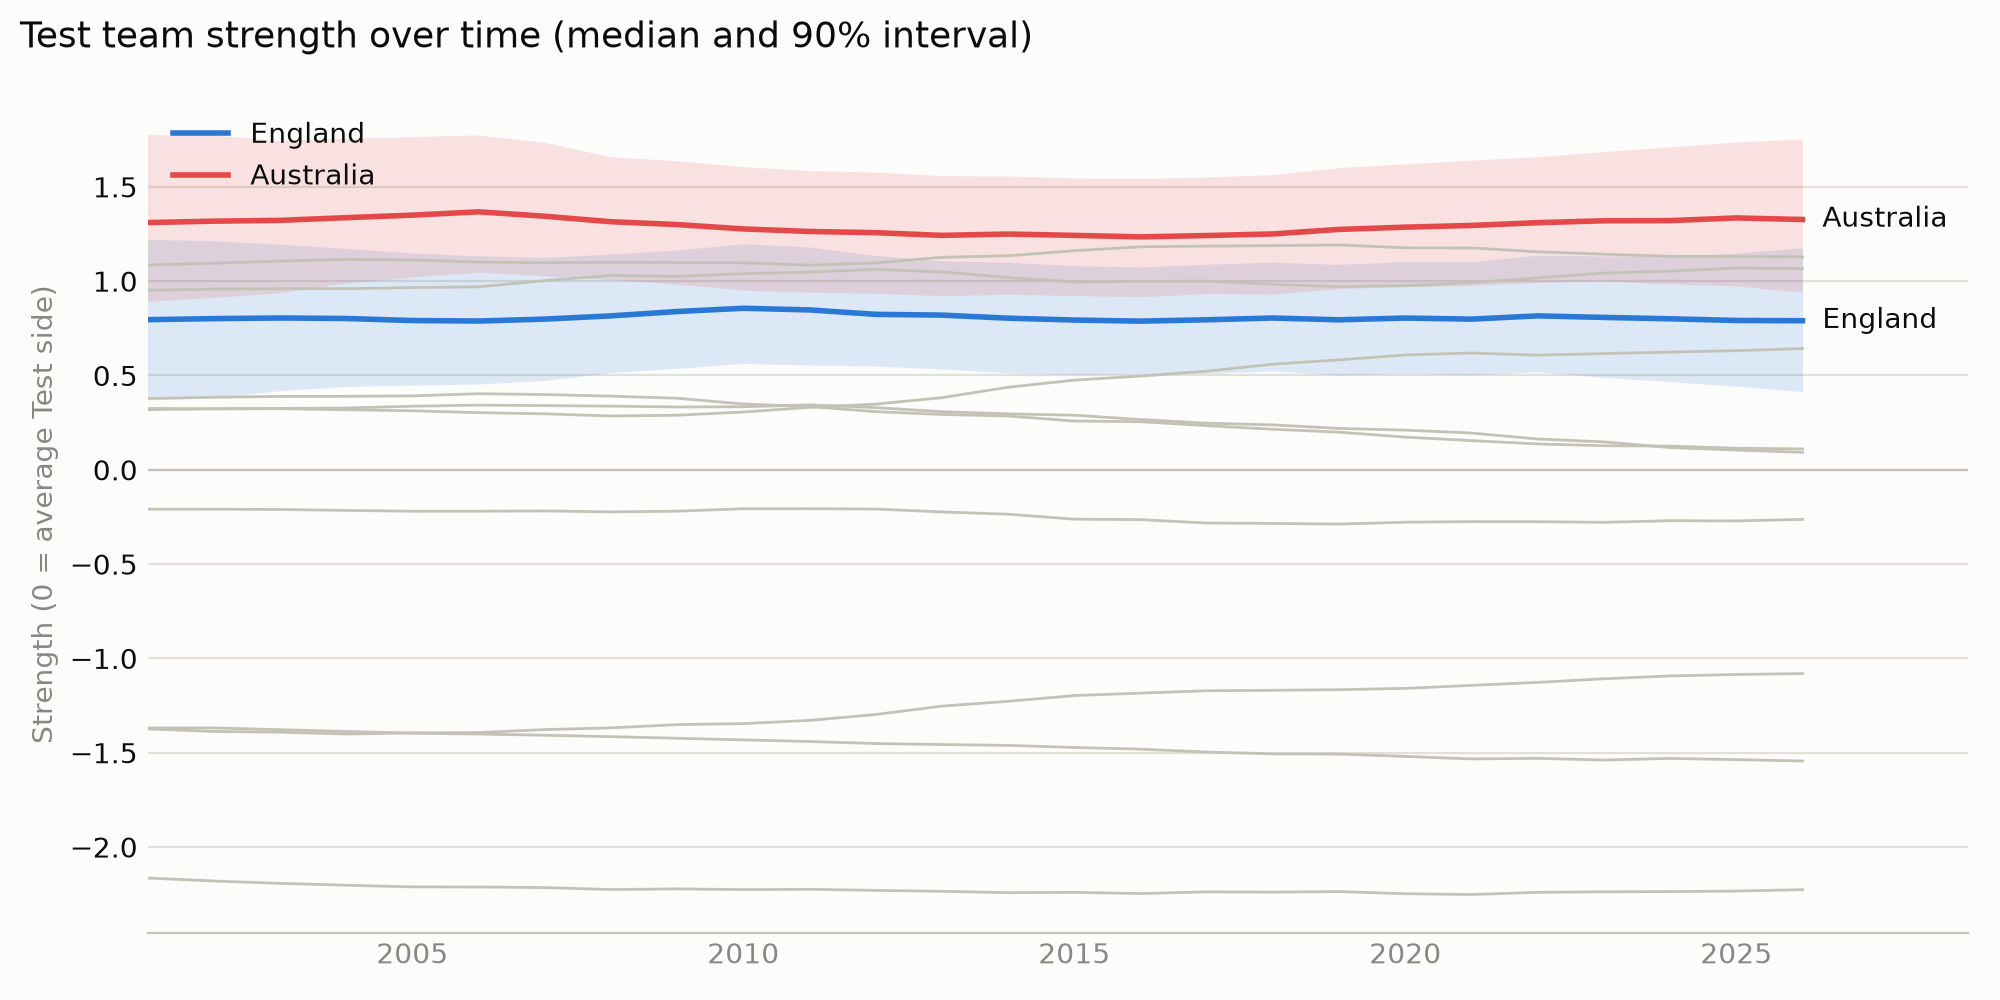
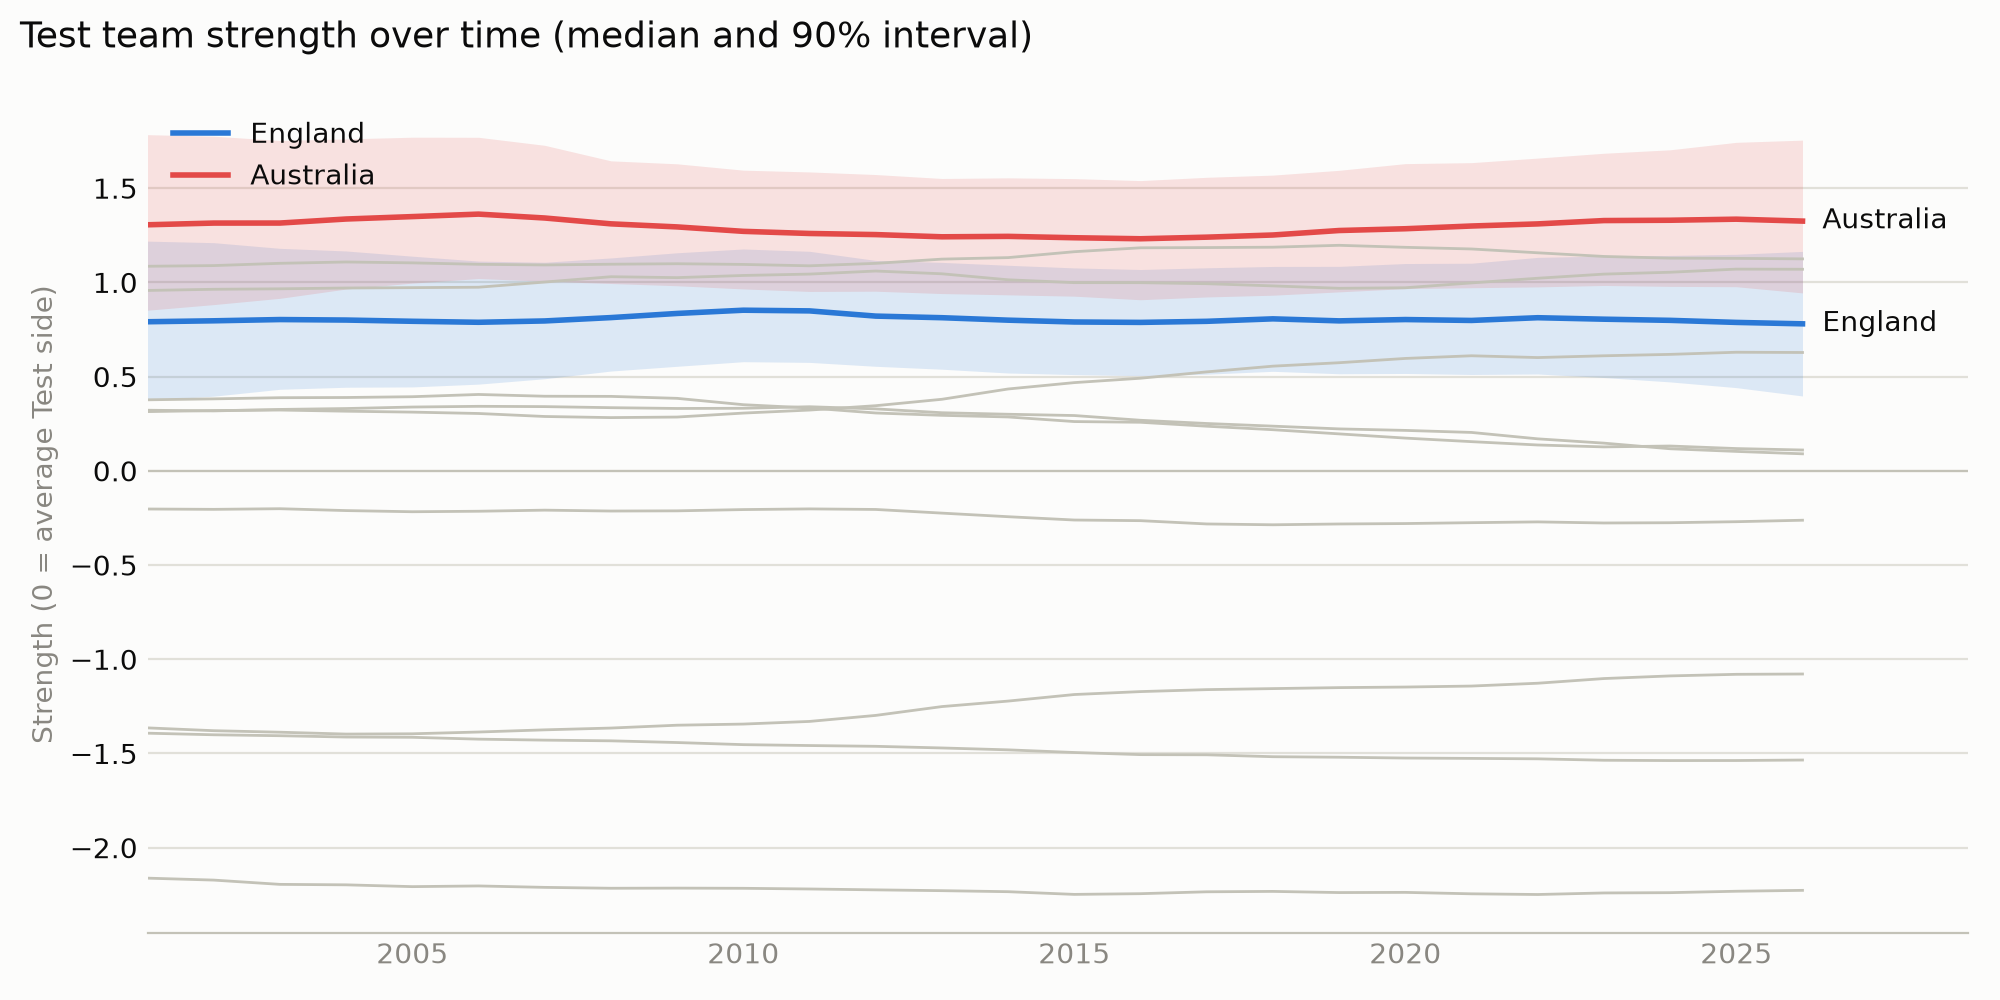
Back-test results, and smaller sampler steps

diff --git a/src/cricket/bayes_model.py b/src/cricket/bayes_model.py
@@ -43,7 +43,7 @@ def fit(model, draws=1000, tune=1000, chains=4, seed=2027, cores=None, progressb
     """Run NUTS and return each parameter's draws as plain arrays shaped (chains, draws, ...)."""
     with model:
         idata = pm.sample(draws=draws, tune=tune, chains=chains, cores=cores, random_seed=seed,
-                          target_accept=0.9, progressbar=progressbar)
+                          target_accept=0.95, progressbar=progressbar)
     samples = {name: np.asarray(idata.posterior[name].values) for name in PARAMETERS}
     divergences = int(np.asarray(idata.sample_stats["diverging"].values).sum())
     return samples, divergences

diff --git a/README.md b/README.md
@@ -11,19 +11,19 @@ through to every series result.
 | Test | Ground | Dates | England win | Draw | Australia win |
 | --- | --- | --- | --- | --- | --- |
 | 1 | Trent Bridge | 18–22 June | 47% | 10% | 43% |
-| 2 | Lord's | 30 June–4 July | 45% | 15% | 40% |
-| 3 | Edgbaston | 8–12 July | 47% | 11% | 42% |
+| 2 | Lord's | 30 June–4 July | 44% | 15% | 40% |
+| 3 | Edgbaston | 8–12 July | 46% | 11% | 42% |
 | 4 | Utilita Bowl | 21–25 July | 44% | 16% | 40% |
 | 5 | Kia Oval | 29 July–2 August | 47% | 10% | 43% |
 
 | Series | England win | Drawn series | Australia win | Australia retain the urn |
 | --- | --- | --- | --- | --- |
-| Model | 47% | 13% | 39% | 53% |
+| Model | 47% | 13% | 40% | 53% |
 | Model, if the Tests were independent | 47% | 14% | 39% | 53% |
 | My own forecast, written before any modelling | 42% | 16% | 42% | 58% |
 
-England are slight favourites at home because the model's home advantage (0.64) is a little larger than the gap
-between the teams (Australia 1.34, England 0.79 on the model's scale).
+England are slight favourites at home because the model's home advantage (0.63) is a little larger than the gap
+between the teams (Australia 1.33, England 0.78 on the model's scale).
 
 ## The question and the approach
 
@@ -34,7 +34,8 @@ between the teams (Australia 1.34, England 0.79 on the model's scale).
 3. **Profile the five grounds** from their history: draw rates, first-innings scores, overs bowled, the toss and how
    batters were dismissed.
 4. **Fit a Bayesian model** in PyMC with Hamiltonian Monte Carlo (NUTS).
-5. **Forecast each 2027 Test and the series**, and compare with a forecast written down before any modelling.
+5. **Back-test it** on the 2019 and 2023 Ashes, using only Tests played before each series.
+6. **Forecast each 2027 Test and the series**, and compare with a forecast written down before any modelling.
 
 ## The model
 
@@ -59,29 +60,44 @@ $$\log w = \beta_0 + v_{\text{venue}} + \tau \cdot \frac{\text{year} - 2019}{10}
 
 | Check | Result | Target |
 | --- | --- | --- |
-| Worst R-hat | 1.008 | below 1.01 |
-| Smallest effective sample size | 654 | above 400 |
+| Worst R-hat | 1.002 | below 1.01 |
+| Smallest effective sample size | 718 | above 400 |
 | Divergences | 0 | 0 |
 
-Four chains of 1,000 warm-up and 1,000 kept draws, with a target acceptance of 0.9. R-hat and effective sample size are
+Four chains of 1,000 warm-up and 1,000 kept draws, with a target acceptance of 0.95. R-hat and effective sample size are
 implemented from first principles in [`diagnostics.py`](src/cricket/diagnostics.py) and tested against cases with known
 answers. Full results are in [`figures/sampler_checks.csv`](figures/sampler_checks.csv).
+
+## How good is it?
+
+I tested the model on the 2019 and 2023 Ashes, fitting it only on Tests played before each series began.
+
+| Average per Test (lower is better) | Model | Past results | Equal thirds |
+| --- | --- | --- | --- |
+| Log loss | 1.06 | 1.10 | 1.10 |
+| Brier score | 0.65 | 0.67 | 0.67 |
+
+The model beat both simple forecasts in both series, but by a small margin over only ten Tests. It favoured
+England in every Test, and both series finished 2-2. Details are in
+[`figures/backtest_tests.csv`](figures/backtest_tests.csv) and [`DECISIONS.md`](DECISIONS.md).
+
+![Back-test: model chances before each Ashes Test, and what happened](figures/backtest.png)
 
 ## What the model learned
 
 | Parameter | Mean | 90% interval |
 | --- | --- | --- |
-| Home advantage | 0.64 | 0.52 to 0.76 |
+| Home advantage | 0.63 | 0.51 to 0.75 |
 | Draw trend per decade | −0.52 | −0.71 to −0.34 |
-| Australia strength, 2026 | 1.34 | 0.94 to 1.75 |
-| England strength, 2026 | 0.79 | 0.42 to 1.18 |
+| Australia strength, 2026 | 1.33 | 0.94 to 1.76 |
+| England strength, 2026 | 0.78 | 0.40 to 1.16 |
 
 - **Draws are becoming much rarer.** The draw band narrows by about 40% per decade. At the five grounds, 20% of Tests
   were drawn overall but 13% since 2019.
 - **Grounds differ beyond their weather.** Lord's draws more than any other well-sampled ground despite London being
   one of the drier fixtures; Trent Bridge, the wettest, draws among the least.
 - **Partial pooling at work.** The Utilita Bowl has a raw draw rate of 43% from only seven Tests. The model rates it
-  about the same as Lord's, with a 90% interval about 50% wider.
+  about the same as Lord's, with a 90% interval about 40% wider.
 
 ![Team strength over time](figures/team_strength.png)
 
@@ -103,13 +119,12 @@ answers. Full results are in [`figures/sampler_checks.csv`](figures/sampler_chec
 - **One home advantage for every team.**
 - **No historical match weather.** Each ground's effect already includes its typical summer weather. The Met Office
   climate averages in `data/manual/` explain those effects and can adjust a forecast in the week of each Test.
-- **Not yet back-tested** on past series.
+- **A small back-test.** Ten Tests is too few to rank models with confidence.
 
 ## Next steps
 
-1. Back-test on the 2019 and 2023 Ashes and on every year of Tests, using only data from before each one, scored against
-   simple baselines.
-2. Use the margin of victory, then ball-by-ball runs and wickets, so the model can follow real changes in form.
+1. Use the margin of victory, then ball-by-ball runs and wickets, so the model can follow real changes in form.
+2. Back-test on every year of Tests, not only two Ashes series, to give hundreds of scored forecasts.
 3. Build player-level strengths from the expected XIs, with availability per Test and a cover plan for replacements.
 
 ## Reproduce it
@@ -118,7 +133,7 @@ Requires [uv](https://docs.astral.sh/uv/).
 
 ```bash
 uv sync
-uv run pytest                                      # 153 tests
+uv run pytest                                      # 160 tests
 ```
 
 Download the **Test matches (JSON)** and the **People register** from [Cricsheet](https://cricsheet.org/downloads/).
@@ -131,6 +146,7 @@ uv run python -m cricket.manual_data               # validate squads, availabili
 uv run python -m cricket.cover_plan                # validate the replacement plan
 uv run python -m cricket.grounds                   # ground profiles and charts
 uv run python -m cricket.grounds --since 2019-01-01
+uv run python -m cricket.backtest --tune 2000      # back-test on the 2019 and 2023 Ashes
 uv run python -m cricket.forecast                  # fit the model and forecast 2027
 ```
 
@@ -147,10 +163,11 @@ uv run python -m cricket.forecast                  # fit the model and forecast 
 | `src/cricket/bayes_model.py` | The PyMC model |
 | `src/cricket/diagnostics.py` | R-hat and effective sample size |
 | `src/cricket/predict.py` | Test and series forecasts from posterior draws |
+| `src/cricket/backtest.py` | Forecasts the 2019 and 2023 Ashes using only earlier Tests, and scores the forecasts |
 | `src/cricket/forecast.py` | Fits the model and produces the forecast |
 | `data/manual/` | Squads, availability, cover plan, fixtures, venues, climate and my own forecast |
 | `figures/` | Charts and results tables |
-| `tests/` | 153 tests |
+| `tests/` | 160 tests |
 | [`DECISIONS.md`](DECISIONS.md) | Every modelling and data decision, with reasons |
 
 ## Data sources

diff --git a/DECISIONS.md b/DECISIONS.md
@@ -283,9 +283,9 @@ Why: each prior rules out only absurd values, so with 898 Tests the data decide.
 much narrower than its prior.
 
 ## 2026-11-10: Sampler settings and checks
-4 chains, each with 1,000 warm-up and 1,000 kept draws, using NUTS with a target acceptance of 0.9 for smaller,
-more careful steps. Each chain took about 6 seconds.
-Result: worst R-hat 1.008, smallest effective sample size 654, 0 divergences, so the posterior can be trusted.
+4 chains, each with 1,000 warm-up and 1,000 kept draws, using NUTS with a target acceptance of 0.95 for small,
+careful steps (raised from 0.9 after the back-test, see below). The fit took about 10 seconds.
+Result: worst R-hat 1.002, smallest effective sample size 718, 0 divergences, so the posterior can be trusted.
 
 ## 2026-11-10: R-hat and effective sample size written from first principles
 I wrote split R-hat and an effective sample size based on Geyer's initial positive sequence in NumPy, and tested them
@@ -307,13 +307,13 @@ stronger at Lord's and at Edgbaston. Treating the Tests as independent would ign
 It rates teams, not players, so the XIs, injuries, workloads between back-to-back Tests and the weather in the week
 of each Test are not yet used. Home advantage is the same for every team. These are the next things to add.
 
-## 2026-11-10: Findings from the first model forecast
-The fit is sound: worst R-hat 1.008, smallest effective sample size 654, 0 divergences.
+## 2026-11-10: Findings from the model forecast
+The fit is sound: worst R-hat 1.002, smallest effective sample size 718, 0 divergences.
 
-Strength in 2026 (0 = average Test side): Australia 1.34 (90% interval 0.94 to 1.75), England 0.79 (0.42 to 1.18).
-Australia are clearly, but not certainly, the stronger side; the intervals overlap only between 0.94 and 1.18.
+Strength in 2026 (0 = average Test side): Australia 1.33 (90% interval 0.94 to 1.76), England 0.78 (0.40 to 1.16).
+Australia are clearly, but not certainly, the stronger side; the intervals overlap only between 0.94 and 1.16.
 
-Home advantage is 0.64 (0.52 to 0.76), slightly larger than the gap between the teams (about 0.54). At home, England
+Home advantage is 0.63 (0.51 to 0.75), slightly larger than the gap between the teams (about 0.55). At home, England
 become slight favourites in every Test: 44% to 47%, against Australia's 40% to 43%.
 
 Draws are becoming much rarer: the draw trend is -0.52 per decade (-0.71 to -0.34), so the draw band narrows by about
@@ -321,10 +321,10 @@ Draws are becoming much rarer: the draw trend is -0.52 per decade (-0.71 to -0.3
 at Trent Bridge and the Kia Oval (10% each).
 
 Partial pooling at the Utilita Bowl: its raw draw rate was 43% from 7 Tests, but the model rates its ground effect
-(+0.23) about the same as Lord's (+0.24, raw rate 26% from 42 Tests). Its 90% interval is about 50% wider than Lord's
-(1.18 against 0.78), showing the extra uncertainty from so few Tests.
+(+0.23) about the same as Lord's (+0.24, raw rate 26% from 42 Tests). Its 90% interval is about 40% wider than Lord's
+(1.16 against 0.81), showing the extra uncertainty from so few Tests.
 
-Series: England win 47%, drawn series 13%, Australia win 39%, so Australia retain the urn 53% of the time.
+Series: England win 47%, drawn series 13%, Australia win 40%, so Australia retain the urn 53% of the time.
 Treating the Tests as independent changes this only slightly (drawn series 14%), because the uncertainty about the
 strength gap is modest compared with the randomness within each Test.
 
@@ -348,3 +348,46 @@ injuries (Hazlewood, Cummins), nor that England have played without Stokes since
 last two Ashes in England, both drawn 2-2. I treat this as a sound starting point. The next version needs more
 information from each Test, such as the margin of victory or runs and wickets from the ball-by-ball data, and
 player-level information before I trust its small England edge.
+
+---
+
+## Testing the model on past series
+
+## 2026-11-10: Back-testing on the 2019 and 2023 Ashes
+Before trusting the 2027 forecast I tested the same model on the two most recent home Ashes. For each series the
+model is fitted only on Tests played before its first day, and the home side is worked out from those Tests alone.
+A test checks this cut-off: it fails if the model sees any Test from inside the series window.
+
+## 2026-11-10: Scoring with log loss and the Brier score
+Log loss punishes confident wrong forecasts heavily, which matters when forecasts feed a betting price. The Brier
+score is gentler and bounded, so it shows whether one bad miss is driving the log loss. I report both, averaged
+per Test.
+
+## 2026-11-10: Two simple forecasts to beat
+Equal thirds knows nothing. Past results gives the share of home wins, draws and away wins in all earlier Tests.
+Beating equal thirds is easy. Beating past results shows that team strength and ground effects add information
+beyond "home sides win more". Ten Tests is a small sample, so this is a first check, not a final verdict.
+
+## 2026-11-10: Smaller sampler steps
+Two of the back-test fits produced two or three divergences out of 4,000 draws, depending on the seed, although R-hat
+and effective sample size were fine. I raised target_accept from 0.9 to 0.95, so NUTS takes smaller steps through the
+tightly curved parts of the posterior, and gave the back-test fits 2,000 warm-up steps. Every fit then ran with no
+divergences. I refitted the 2027 forecast with the new setting so both use the same model. No figure moved by more
+than a point, and England still win the series 47% of the time. No back-test score changed by more than 0.002.
+
+## 2026-11-10: Back-test results
+Fitted only on earlier Tests (622 before the 2019 Ashes, 771 before 2023), the model beat both simple forecasts in
+both series. Across the ten Tests its average log loss was 1.06, against 1.10 for past results and 1.10 for equal
+thirds. Its Brier score was 0.65, against 0.67 for both.
+
+The edge is real but small, and ten Tests is too few to rely on. The model made England favourites in every Test,
+at 45% to 52%, yet England and Australia won four Tests each and two were drawn. It made England series favourites
+both times (60% in 2019, 54% in 2023), and both series finished 2-2 with Australia keeping the urn. It gave a drawn
+series about 15% each time.
+
+Draws were partly right. Lord's had the highest draw chance in both series, and Lord's 2019 was drawn. Old Trafford
+2023, drawn through rain, was given only 16%, because the model cannot see the weather in the week of a Test.
+
+The forecasts barely move from one Test to the next, or from 2019 to 2023. That is the same weakness as the flat
+team strengths: win, draw or loss alone carries too little information. Adding the margin of victory is the next
+step, followed by this back-test again to see whether the edge grows.
